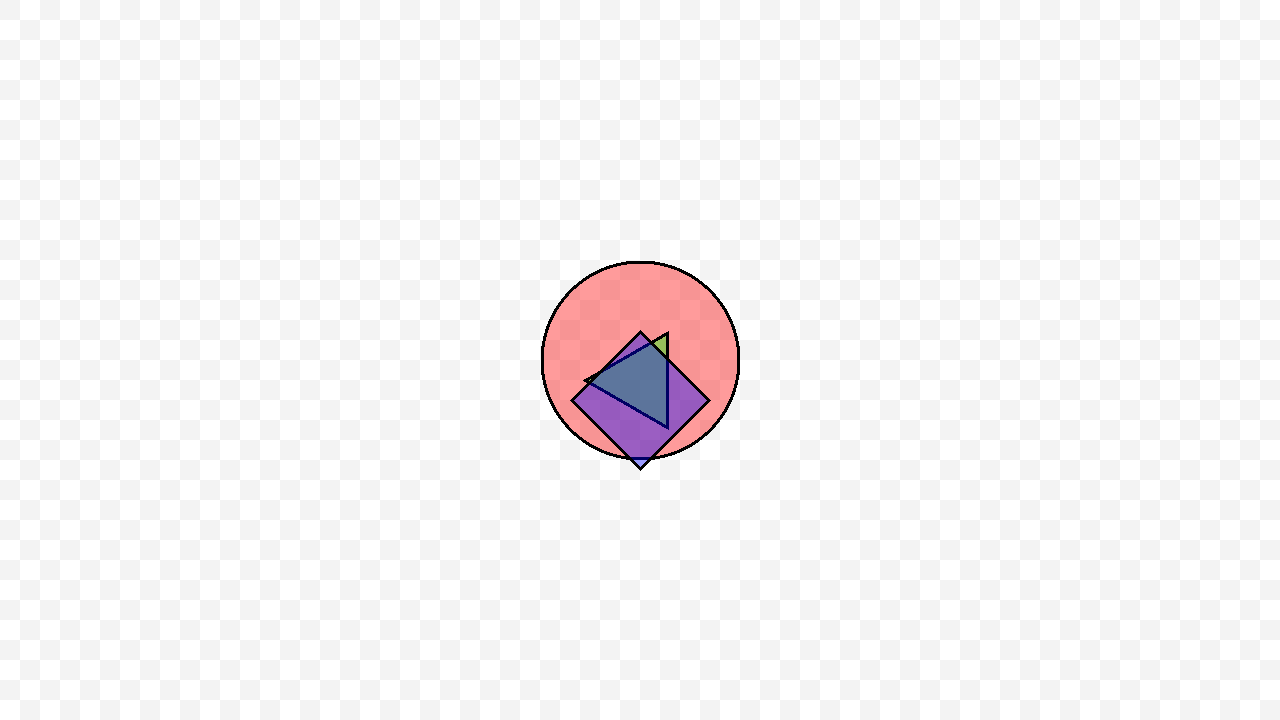
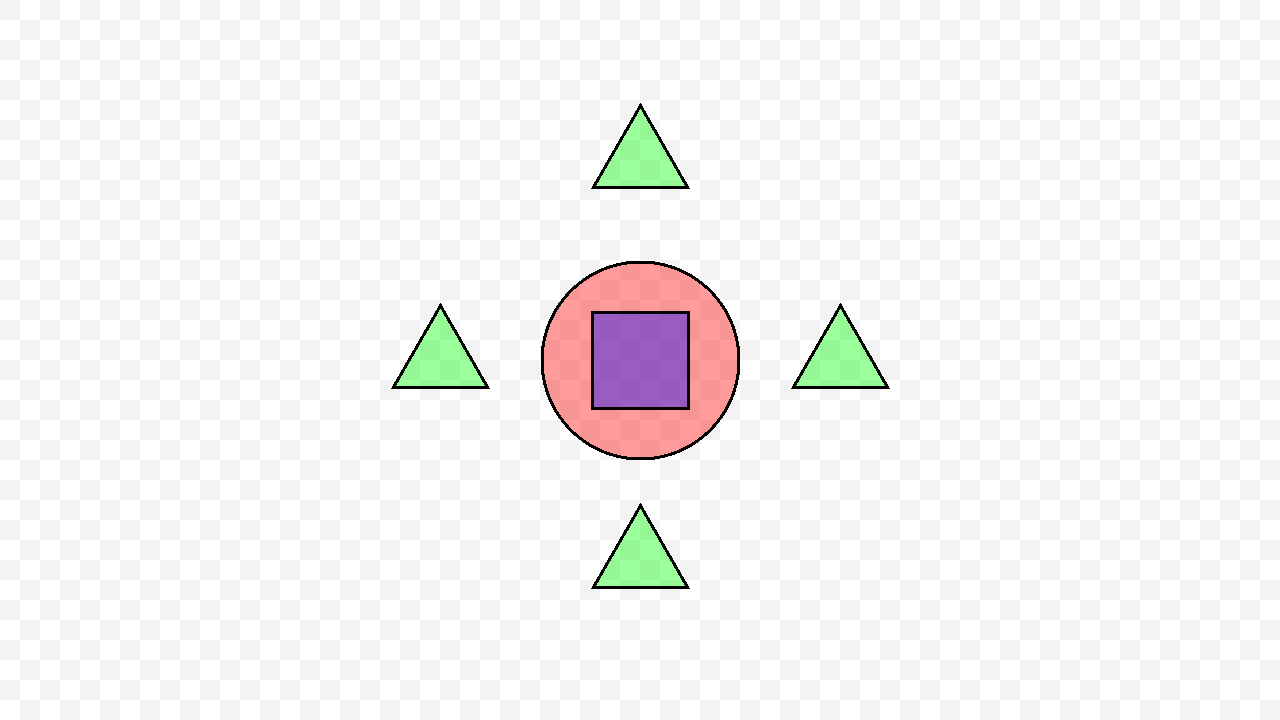
Make step 7 drawing more aesthetic

diff --git a/projects/typed-bytes/examples/Shapes/demo/drawings/step07.ts b/projects/typed-bytes/examples/Shapes/demo/drawings/step07.ts
@@ -24,20 +24,44 @@ export default ensureType<shapes.Drawing>()({
       fill: { ...colors.red, alpha: fillAlpha },
     },
     {
-      type: "triangle",
-      position: { x: 640, y: 380 },
+      type: "square",
+      position: { x: 640, y: 360 },
       sideLength: 100,
-      rotation: 30,
+      rotation: 0,
+      outline,
+      fill: { ...colors.blue, alpha: fillAlpha },
+    },
+    {
+      type: "triangle",
+      position: { x: 440, y: 360 },
+      sideLength: 100,
+      rotation: 0,
       outline,
       fill: { ...colors.green, alpha: fillAlpha },
     },
     {
-      type: "square",
-      position: { x: 640, y: 400 },
+      type: "triangle",
+      position: { x: 840, y: 360 },
       sideLength: 100,
-      rotation: 45,
+      rotation: 0,
       outline,
-      fill: { ...colors.blue, alpha: fillAlpha },
+      fill: { ...colors.green, alpha: fillAlpha },
+    },
+    {
+      type: "triangle",
+      position: { x: 640, y: 160 },
+      sideLength: 100,
+      rotation: 0,
+      outline,
+      fill: { ...colors.green, alpha: fillAlpha },
+    },
+    {
+      type: "triangle",
+      position: { x: 640, y: 560 },
+      sideLength: 100,
+      rotation: 0,
+      outline,
+      fill: { ...colors.green, alpha: fillAlpha },
     },
   ],
 });
